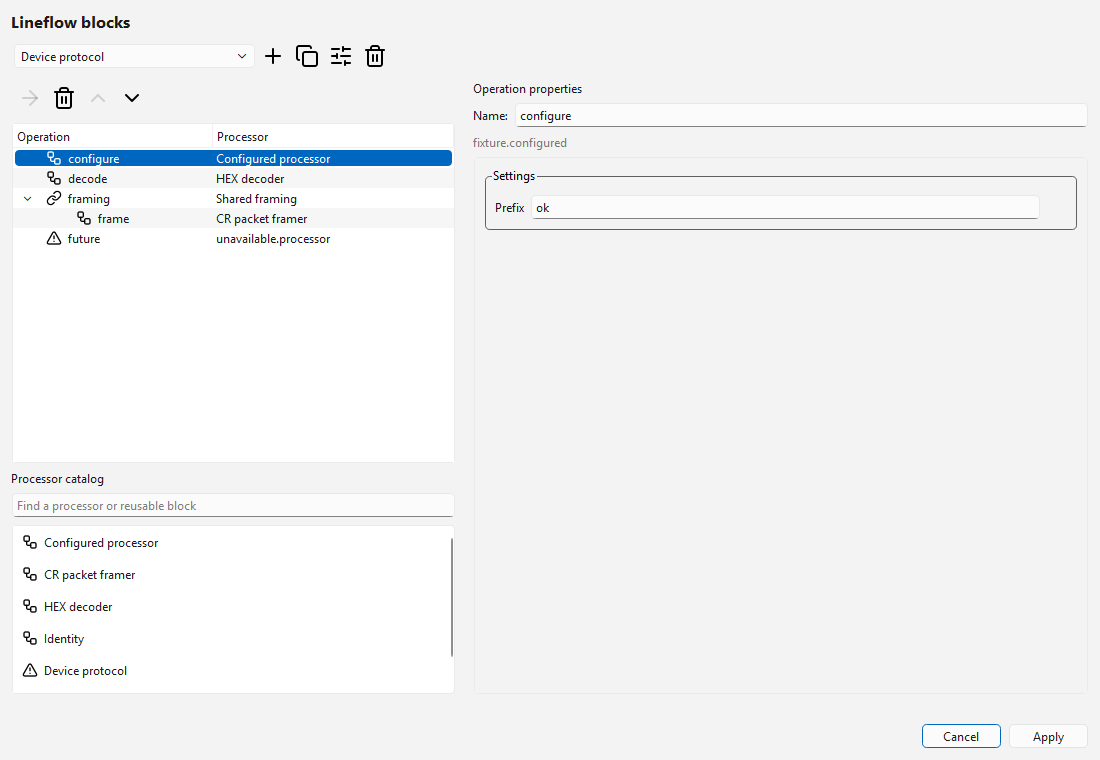
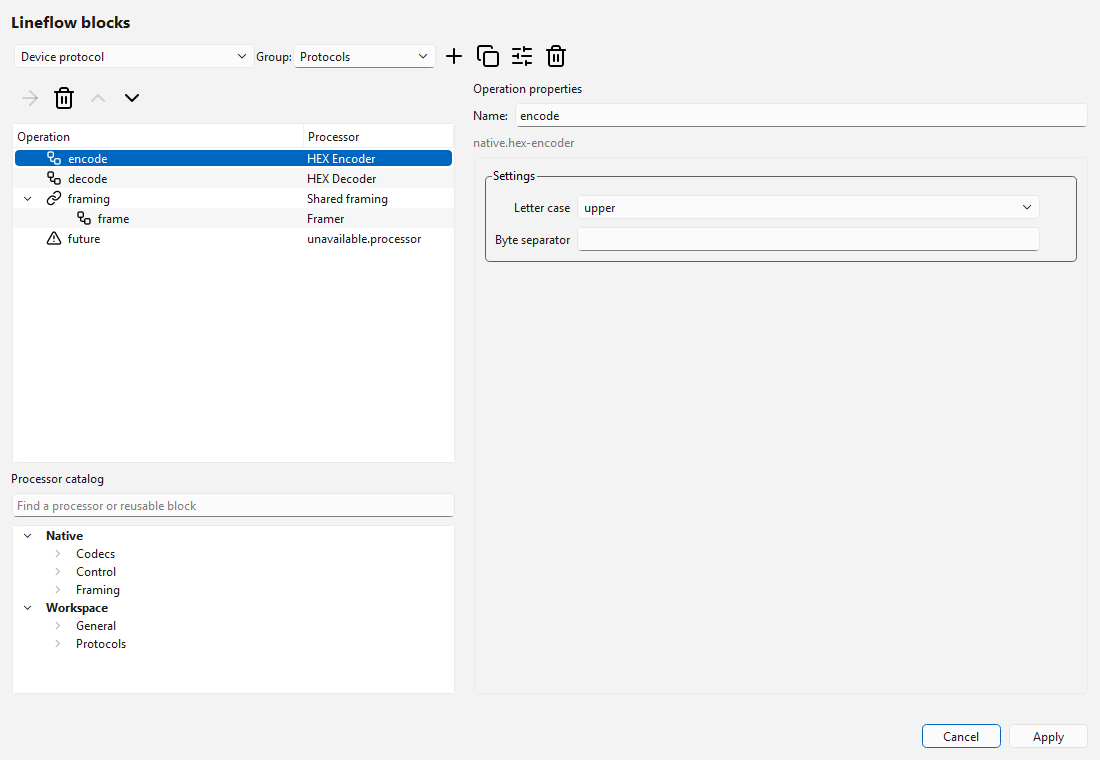
docs: describe configurable node contracts and acceptance

diff --git a/docs/processing-nodes.md b/docs/processing-nodes.md
@@ -1,0 +1,129 @@
+# Configurable processing nodes
+
+Built-in processing implementations live in `src/Core/src/Processing/Nodes`.
+Each node owns its algorithm, state, schema and factory: Gate, Framer, HexEncoder,
+HexDecoder, Base64Encoder and Base64Decoder. NativeProcessors only registers the
+catalog entries. Codec nodes share bounded synchronous invocation plumbing, not
+an algorithm dispatcher or mutable state.
+
+Descriptors expose `group` as a trimmed optional string of at most 128 characters,
+with no NUL. Saved workspace definitions use the same field. An empty group is
+presented as General. The catalog groups by origin (Native / Workspace), then
+by this subgroup. Group headings are expandable and cannot be selected as
+operations or dragged. Searching matches origin, subgroup, name and ID. Workspace
+block groups can be edited beside the block selector and remain drafts until Apply.
+
+## Gate
+
+`native.gate`, group Control, has `enabled: true` by default. Enabled input is
+forwarded with its bytes and packet/stream boundary unchanged. Disabled input
+completes successfully with zero outputs: traffic is dropped, never queued for
+later release. It therefore does not stall a Lineflow. Limits still apply while
+disabled. Cancellation stops acceptance. Configuration changes follow the common
+prepared-instance replacement contract rather than mutating another instance.
+
+## Framer
+
+`native.framer`, group Framing, accumulates arbitrary byte chunks and emits zero,
+one or many complete Packet frames. A stream read is never a frame boundary.
+State survives split delimiters and UTF-8 is not decoded from incoming data.
+
+| Parameter | Default | Behavior |
+|---|---|---|
+| mode | delimiter | delimiter, size or either rule |
+| frameSize | 64 | Raw bytes per frame in size/either mode |
+| ending | `\r` | Byte pattern with `\r`, `\n`, `\0`, `\xHH`, `\\` escapes; literal text is UTF-8 |
+| includeEnding | false | Keep a matched ending in the emitted frame |
+| emitEmpty | true | Preserve empty frames produced by the rules |
+| packetTail | preserve | preserve, emit, discard or error for incomplete input-packet tails |
+| maxFrameSize | 1048576 | Accumulation limit, clamped to the runtime byte bound |
+
+In either mode the first completed ending or raw-size boundary emits a frame.
+Ending bytes count toward raw size; a complete ending wins a tie. Removing an
+ending occurs only when the ending rule won. The decoded ending is limited to
+256 bytes. Matching is incremental and linear, including overlapping patterns.
+
+By default even an incoming Packet boundary does not flush accumulated bytes.
+The emit tail policy explicitly emits remaining bytes there; an entirely empty
+packet emits an empty frame only in that policy with emitEmpty enabled. It does
+not add a duplicate empty frame after a rule already emitted during the same call.
+Discard clears the residual and partial delimiter match; error rejects a nonempty
+residual. Stream chunks do not apply tail policy. Cancellation discards residual
+state; the Processor contract has no implicit end-of-stream flush.
+
+## HEX
+
+- `native.hex-encoder`: letterCase is upper (default) or lower; separator defaults
+  to one space and accepts at most 16 Unicode characters of literal UTF-8 text.
+  Separators occur between bytes across StreamChunk calls, never at the beginning
+  or end of a packet. Packet completion resets separator state.
+- `native.hex-decoder`: ignoreWhitespace defaults to true and ignores ASCII
+  space, TAB, CR, LF, VT and FF. Both letter cases decode. Non-hex bytes are errors;
+  a split nibble survives stream reads but an odd nibble at Packet end is rejected.
+
+Both entries belong to Codecs. Non-whitespace encoder separators require a
+separate transformation before the strict HEX decoder.
+
+## Base64
+
+- `native.base64-encoder`: alphabet is standard or url, padding defaults true,
+  lineLength defaults zero (no wrapping) or a multiple of four up to 4096, and
+  lineEnding is lf or crlf. Stream reads emit complete three-byte units and retain
+  at most two trailing bytes. Packet completion emits the final unit and optional
+  padding, then resets wrapping and accumulation state.
+- `native.base64-decoder`: alphabet is standard or url, ignoreWhitespace defaults
+  true and requirePadding defaults true. Parsing preserves quartets across reads.
+  Invalid alphabet bytes, misplaced/incomplete padding, data after padding and
+  noncanonical unused bits are errors. With requirePadding false, a two/three-digit
+  tail may finish at Packet end; a one-digit tail is always invalid.
+
+Both entries belong to Codecs. A padded Base64 value terminates that packet stream;
+data after padding requires a new packet boundary. An empty valid Packet is
+preserved. Stream chunks never imply padding or finalization. Put a Framer before
+an encoder/decoder when input is a continuous transport stream requiring explicit
+message boundaries. Cancellation is not a request to flush or encode a tail.
+
+## Limits and configuration
+
+Each implementation receives independent state and resolved schema defaults.
+Factories reject malformed options and guard input, output and persistent state
+against runtime bounds. A processing error stops that instance and suppresses all
+outputs from the failing invocation. Previously completed invocations are not
+rolled back. Output and error data own their storage. Reentrant input during an
+output callback returns WouldBlock; completion releases the invocation slot.
+
+Schemas are consumed by the existing generated settings forms and `x-widget`
+registry. Numeric settings persist as numbers and booleans as booleans. Unknown
+configuration is preserved. Current development IDs are native.gate and
+native.framer; Identity and the fixed CR-only node are removed without aliases.
+HostedPlugin IID 9 includes the descriptor group field; native modules must be
+rebuilt against the generated SDK.
+
+## Verification
+
+Verified on 2026-11-09 with Qt 6.12.0 / MSVC x64 Debug. The application and native
+modules built successfully; all 42 configured CTest targets passed (72.82 s).
+After the requested name-column refinement, affected App and editor targets passed
+again (27.84 s combined). Node tests cover all 256 byte values, incremental splits,
+multiple/empty frames, binary and overlapping endings, packet policies, canonical
+Base64 bits/padding, malformed data/configuration, output/state bounds, cancellation,
+reentrant input and destruction during callbacks. Registered Lineflow roundtrips
+and a disabled Gate verify zero-output completion without blocking downstream.
+
+Metadata tests verify group type/length/ownership, raw-storage deep copies,
+publication atomicity and change notifications. GUI acceptance checks both origin
+roots, non-draggable subgroup headings, subgroup editing, filtering, real encoder
+and Gate controls, and stable name/class column proportions after graph resets.
+The name column stretches; the class column starts compact, is resizable and is
+capped to 40 percent of the viewport. Full names remain available in tooltips.
+
+Native Windows screen-fit, column-reset and visual checks passed at scales 1 and 2
+(five QtTest passes without skips per scale). HEX and Framer captures use logical
+1100 by 760 client areas and were visually inspected. The separately clean-built
+SDK consumer passed its explicit acceptance with three passes and no skips.
+Changed C++ files were clang-formatted; documentation links, captures and diff
+checks passed. No real-device or external endpoint acceptance was performed.
+
+- [HEX encoder and grouped catalog](images/lineflow-editor/Editor.png)
+- [Framer settings](images/lineflow-editor/Framer.png)
+- [Framer at scale 2](images/lineflow-editor/Framer2x.png)

diff --git a/docs/processing-core.md b/docs/processing-core.md
@@ -37,7 +37,7 @@ Lineflow serializes child invocations and preserves emitted output order. Its
 queued pump has a finite event budget and retries a temporarily blocked child in
 a later event-loop turn. Output callbacks have no per-output credit: the host
 bounds its queue, each child invocation's expansion and the final output of an
-accepted input, then fails and cancels on overflow. Identity stages do not divide
+accepted input, then fails and cancels on overflow. Pass-through stages do not divide
 the maximum payload size by pipeline depth.
 Native plugin code is trusted to bound its own buffers according to factory limits;
 these bounds do not sandbox arbitrary plugin memory or CPU usage.
@@ -60,7 +60,7 @@ types, not QObject pointers.
 ## Plugin lifetime
 
 The plugin SDK consists of header-only `Processor`, `ProcessorCatalog`, and the
-existing pure host interfaces. Hosted capability IID version 8 rejects older
+existing pure host interfaces. Hosted capability IID version 9 rejects older
 host layouts before any new SDK field or method can be used. Native plugins link Qt and the SDK, not another
 static Core. `PluginHost::registerProcessorType` uses a manager-assigned owner
 scope during plugin startup. Every type supplies a stable ID, title, version 1
@@ -114,7 +114,7 @@ processorDefinitions:
     source:
       nodes:
         - name: frame
-          type: native.cr-framer
+          type: native.framer
           configuration: {}
   receive:
     id: receive
@@ -125,7 +125,7 @@ processorDefinitions:
         - name: framing
           reference: receive-lines
         - name: output
-          type: native.identity
+          type: native.gate
           configuration: {}
 ```
 
@@ -188,12 +188,9 @@ settings path API. Terminal A and terminal B keep separate maps, as do Rx and Tx
 Saving these opaque settings does not load a plugin, resolve defaults, start a
 processor, or connect terminal routing.
 
-The supplied native factories are `native.identity`, `native.cr-framer` and
-`native.hex-decoder`; register them explicitly with `registerNativeProcessors`.
-The CR framer preserves partial frames across stream chunks and emits packet
-boundaries at CR, including empty packets. The HEX decoder preserves a split
-nibble across stream chunks, rejects invalid hexadecimal bytes and rejects a
-packet ending in a half byte. These processors have no terminal UI integration.
+The built-in catalog contains Gate, Framer and separate HEX/Base64 encoders and
+decoders, with independent parameter schemas and descriptor groups. See
+[processing nodes](processing-nodes.md) for configuration and byte-boundary rules.
 
 ## Verification
 

diff --git a/docs/lineflow-editor.md b/docs/lineflow-editor.md
@@ -1,7 +1,7 @@
 # Workspace Lineflow editor
 
 The application opens the editor through **Tools > Lineflow editor** when a
-workspace is open. Core provides the existing identity, CR framing and HEX decoder
+workspace is open. Core provides configurable Gate, Framer and HEX/Base64 encoder/decoder
 processors; plugins can add processors through the common catalog. The editor
 creates reusable workspace definitions and never creates processing runtimes.
 Terminal Rx/Tx selection and private property panels remain FLOW-5 work.
@@ -11,7 +11,8 @@ Terminal Rx/Tx selection and private property panels remain FLOW-5 work.
 The block selector addresses stable definition IDs separately from human-readable
 names. The operation tree shows the selected block in traversal order. Nested
 blocks expand as linked, read-only views; opening their definition edits the shared
-block. The catalog contains native, provider-defined and workspace processors,
+block. The catalog groups native and workspace entries by origin and their descriptor
+`group` subgroup. It contains native, provider-defined and workspace processors,
 including unavailable entries with a concrete reason. No ControlFlow nodes or
 freely connected graph are introduced.
 
@@ -105,3 +106,13 @@ of foreign/duplicate journal targets. No real serial device, external network
 endpoint or elevation was used. The obsolete standalone operation prototype and
 its captures were removed after checking callers. Source files were clang-formatted;
 local documentation links, pinned SVG XML and `git diff --check` were checked.
+
+Built-in options and framing/codec boundary rules are specified in
+[processing nodes](processing-nodes.md).
+
+The configurable node/catalog follow-up adds descriptor subgroups and prioritizes
+the operation name column, preserving the compact class-column width across model
+resets. Latest native captures include the actual built-in HEX encoder and Framer
+schemas instead of an illustrative parameter fixture. See
+[configured node verification](processing-nodes.md#verification) for the 42-target
+acceptance record and updated captures.

diff --git a/docs/plugins.md b/docs/plugins.md
@@ -373,7 +373,7 @@ HostedPlugin ABI version 6 adds `SerialDevice::atomicWrites()`. The default stre
 capability permits partial writes and byte/line pacing; UDP reports atomic writes
 so the shared output queue preserves datagram boundaries and rejects byte pacing.
 Rebuild every hosted plugin against this SDK. Interface IID
-`org.octaviarius.Termaster.HostedPlugin/8.0` rejects older hosted binary interfaces.
+`org.octaviarius.Termaster.HostedPlugin/9.0` rejects older hosted binary interfaces.
 
 ## Native processor registrations
 
@@ -395,3 +395,8 @@ native types share the catalog, defaults, schemas and editor metadata. Prepared
 snapshots and running instances retain provider leases; publishing or removing a
 saved definition does not mutate active instances. Rebuild hosted plugins against
 the current SDK. No Python interpreter is supplied by this interface alone.
+
+HostedPlugin ABI version 9 adds the processor descriptor `group` field. Native
+metadata and saved workspace definitions expose the same subgroup label; origin
+remains independent. Catalog queries copy group strings before module unload.
+Rebuild hosted plugins against this SDK. See [processing nodes](processing-nodes.md).

diff --git a/docs/roadmap.md b/docs/roadmap.md
@@ -168,6 +168,18 @@ The delivered editor and persistence acceptance are recorded in
 [Lineflow editor](lineflow-editor.md). No freely connected graph or ControlFlow
 nodes are part of Lineflow.
 
+## FLOW-4.1: Configurable nodes and catalog groups
+
+- [x] Replace placeholder native operations with independent Processing/Nodes implementations.
+- [x] Add Gate enabled by default, configurable Framer and HEX/Base64 encoder/decoder pairs.
+- [x] Preserve stream state across reads and enforce packet finalization, strict decoding and bounds.
+- [x] Add descriptor group metadata and Native/Workspace subgroup presentation with search.
+- [x] Keep operation names wider than processor classes across model resets and user resizing.
+- [x] Verify binary splits, schemas, lifecycle, grouped forms and native 1x/2x captures.
+
+Configuration and byte-boundary contracts are specified in
+[processing nodes](processing-nodes.md).
+
 ## FLOW-5: Terminal selection and private properties
 
 - [ ] Add compact independent Rx/Tx selectors for a block, elementary processor or bypass.
